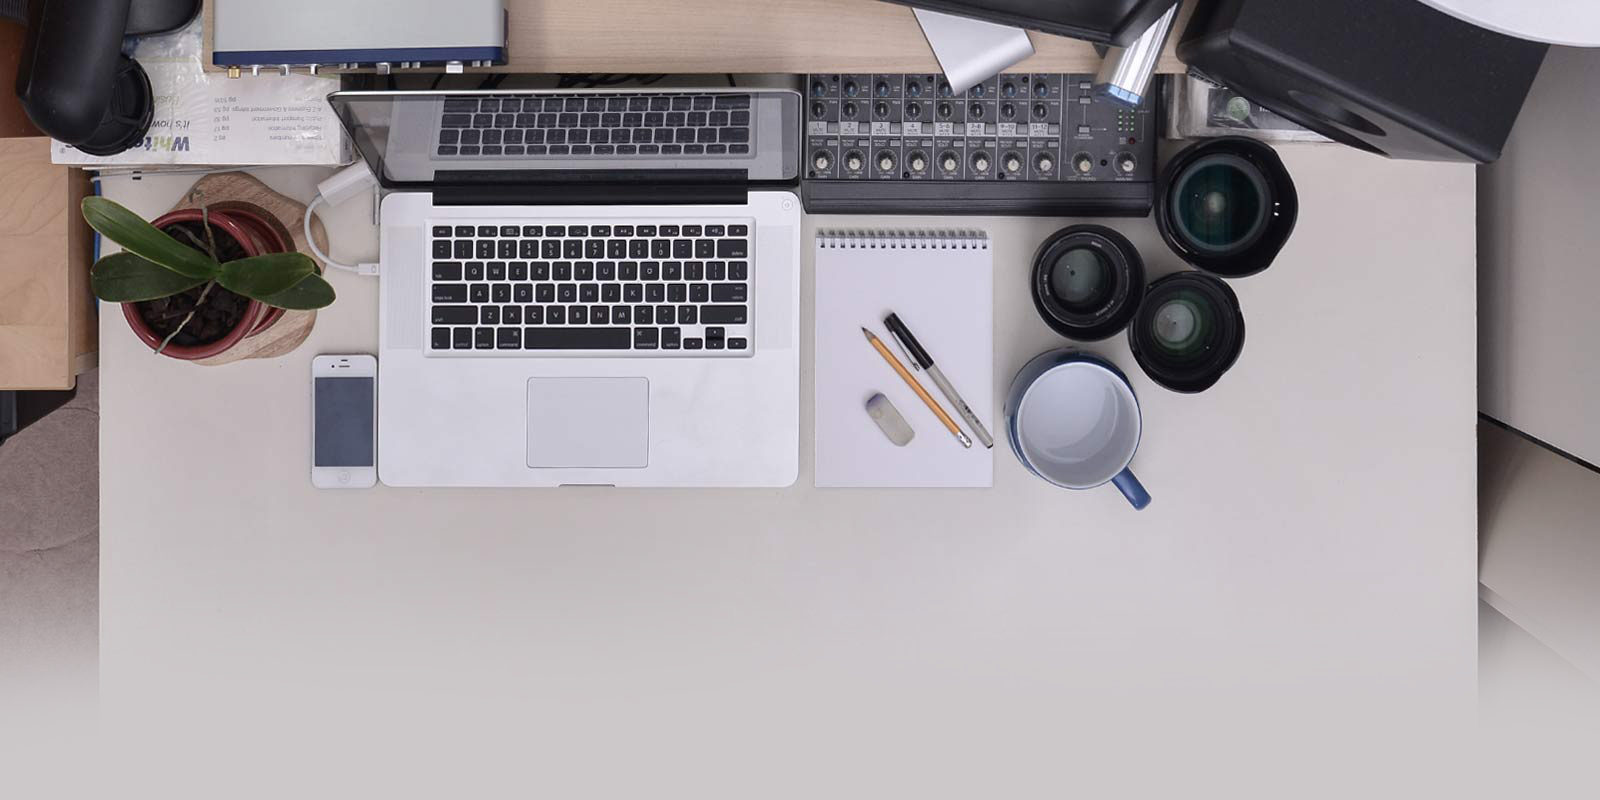
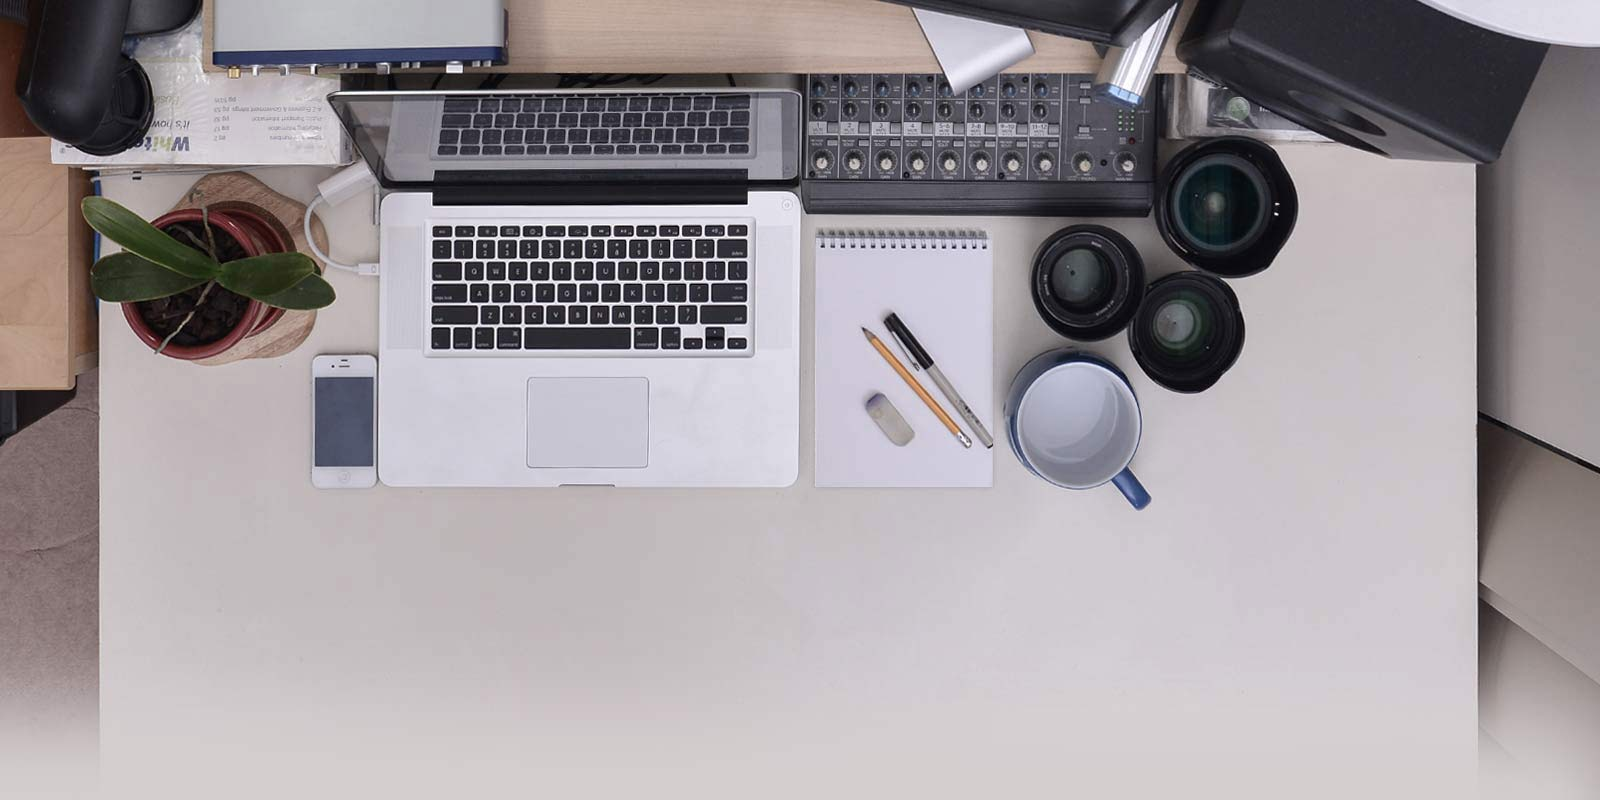
1.1.1.sf

Changed region(s): [[0.9062, 0.7188, 1.0, 0.9375], [0.0, 0.7188, 0.0625, 0.9062]]

diff --git a/css/myStyle.css b/css/myStyle.css
@@ -14,7 +14,7 @@ Section 1 Intro
 ****************************************
 ***************************************/
 #section-1{
-	background:url(../img/sct1.png) no-repeat 25% -60px #ccc7c9;
+	background:url(../img/sct1.jpg) no-repeat 25% -60px #d4cece;
 	background-size:cover;
 	}
 .sct1 .wrap{
@@ -30,22 +30,22 @@ Section 1 Intro
 
 .sct1 .wrap .script{
 	font-family: 'Leckerli One', cursive; 
-	color:#ffd200;
-	font-size:140px;
+	color:#ffc600;
+	font-size:150px;
 	line-height:0.7;display:inline-block
 	}
 .sct1 .wrap .sanSerif{
 	font-family: 'Open Sans Condensed', sans-serif;
 	color:#fff;
-	font-size:83px;
+	font-size:60px;
 	font-weight:300;
 	text-transform:uppercase;
 	}
 .sct1 .wrap p{
 	font-family: 'Yanone Kaffeesatz', sans-serif;	
-	font-size:38px;
+	font-size:32px;
 	font-weight:300;
-	color:#333;
+	color:#3b3b3b;
 	padding:0;
 	}
 /***************************************
@@ -421,58 +421,12 @@ Section Work Tiles
 	padding:5px 0;
 	color:#2b2b2b;
 	background:#ffd200		
-
 	}
 .viewWork a:hover,.viewWork a:active{
 	text-decoration:none;
+	color:#fff;
 }
 
-/***************************************
-****************************************
-Section 4 Quote 2
-****************************************
-***************************************/
-.sct4{
-	height:700px;
-	background:#fff;
-	position:relative;
-	}
-.sct4 .wrap{
-	margin-top:270px;
-	text-align:center;
-	}
-.sct4 .wrap blockquote:before{
-	font-size:120px;
-	font-weight:700;
-	font-family: 'News Cycle', sans-serif;	
-	color: #7A7A7A;
-    content: "\201D";
-    display: block;
-    left:0;
-    position: absolute;
-    top: -50px;
-	}	
-.sct4 .wrap blockquote{
-	font-family: 'Open Sans Condensed', sans-serif;
-	font-size:4em;
-	font-weight:300;
-	color:#5e5e5e;
-	border-top:3px solid #ccc;
-	border-bottom:3px solid #ccc;
-	border-left:none;
-	border-right:none;
-	padding:20px 0 20px;
-	position: relative;
-
-	}
-.sct4 .wrap cite{	
-	font-family: 'Yanone Kaffeesatz', sans-serif;	
-	font-size:30px;
-	font-weight:400;
-	color:#2d2d2d;
-	border:none;
-	text-transform:uppercase;
-	}
 /***************************************
 ****************************************
 Section 4a Coder
@@ -916,13 +870,13 @@ Section 7 Contact
 .sct1 .wrap .sanSerif{
 	font-family: 'Open Sans Condensed', sans-serif;
 	color:#fff;
-	font-size:70px;
+	font-size:50px;
 	font-weight:300;
 	text-transform:uppercase;
 	}
 .sct1 .wrap p{
 	font-family: 'Yanone Kaffeesatz', sans-serif;	
-	font-size:30px;
+	font-size:27px;
 	font-weight:300;
 	color:#333;
 	padding:0;
@@ -1043,7 +997,7 @@ Section 7 Contact
 @media (max-width: 767px) {
 /*********Section 1 Intro max-width: 767px*********/
 #section-1{
-	background: #ccc7c9;
+	background: #e3e3e3;
 	}
 .sct1 .wrap{
 	top:15%;
@@ -1051,20 +1005,16 @@ Section 7 Contact
 	margin:0 0 0 -50%;
 	}
 .sct1 .wrap .script{
-	color:#ffd200;
 	font-size:85px;
 	line-height:1;
 	}
 .sct1 .wrap .sanSerif{
-	color:#fff;
 	font-size:43px;
 	font-weight:300;
 	}
 .sct1 .wrap p{
 	font-family: 'Yanone Kaffeesatz', sans-serif;	
 	font-size:20px;
-	font-weight:300;
-	color:#333;
 	padding:0;
 	}	
 
@@ -1267,7 +1217,7 @@ Section 7 Contact
 @media screen and (max-width: 400px) {
 /*********Section 1 Intro max-width: 400px*********/
 #section-1{
-	background: #ccc7c9;
+	background: #e3e3e3;
 	}
 .sct1 .wrap{
 	top:0;
@@ -1275,13 +1225,11 @@ Section 7 Contact
 	margin:0 0 0 -50%;
 	}
 .sct1 .wrap .script{
-	color:#ffd200;
 	font-size:180px;
 	line-height:1;
 	display:block;
 	}
 .sct1 .wrap .sanSerif{
-	color:#fff;
 	font-size:40px;
 	font-weight:300;
 	}
@@ -1345,6 +1293,10 @@ Section 7 Contact
 	display:none;
 	}
 	
+.viewWork a{
+	font-size:1.4em;
+	
+	}
 /*********Section 4a Coder max-width: 400px*********/
 .sct4a{
 	}

diff --git a/index.html b/index.html
@@ -56,7 +56,7 @@
                                             Section 3 Designer
         ------------------------------------------------------------------------------------- 
         ------------------------------------------------------------------------------------->
-    	<li id="section-3">
+    	<li>
             <section class="sct3">
                 <div class="col-md-8 col-md-offset-2">
                         <div class="col-xs-2 col-sm-3 col-md-3">
@@ -73,10 +73,10 @@
                                                 Works Tile
             ------------------------------------------------------------------------------------- 
             ------------------------------------------------------------------------------------->
-            <section id="workTile" class="clearfix">
+        <section id="workTile" class="clearfix">
                 <div class="col-xs-6 col-sm-4 col-md-3"><a href="img/fridge.jpg" class="thumb12 tb swipebox" title="Site Content - Fridge"><img src="img/placeHolder.png" class="img-responsive" alt="Responsive image"></a></div>
                 <div class="col-xs-6 col-sm-4 col-md-3"><a href="img/cookingLg.jpg" class="thumb2 tb swipebox" title="Cooking in Style"><img src="img/placeHolder.png" class="img-responsive" alt="Responsive image"></a></div>
-                <div class="col-xs-6 col-sm-4 col-md-3"><a href="img/inkFinder.jpg" class="thumb10 tb swipebox" title="Ink Finder"><img src="img/placeHolder.png" class="img-responsive" alt="Responsive image"></a></div>
+                <div class="col-xs-6 col-sm-4 col-md-3"><a href="img/inkFinder.jpg" class="thumb10 tb swipebox" title="Site Content -  sInk Finder"><img src="img/placeHolder.png" class="img-responsive" alt="Responsive image"></a></div>
                 
                 <div class="col-xs-6 col-sm-4 col-md-3"><a href="img/heaters.jpg" class="thumb4 tb swipebox" title="Site Content - Heaters"><img src="img/placeHolder.png" class="img-responsive" alt="Responsive image"></a></div>
                 <div class="col-xs-6 col-sm-4 col-md-3"><a href="img/aircon.jpg" class="thumb9 tb swipebox" title="Site Content - Air conditioning"><img src="img/placeHolder.png" class="img-responsive" alt="Responsive image"></a></div>
@@ -90,7 +90,7 @@
                 <div class="col-xs-6 col-sm-4 col-md-3"><a href="img/jewbox1.gif" class="thumb13 tb swipebox" title="TIHIB - Jewellery Box"><img src="img/placeHolder.png" class="img-responsive" alt="Responsive image"></a></div>
             </section>
             <div class="viewWork"><a href="https://www.behance.net/shawnchang" target="_blank">Please click here to see more of my works</a></div>
-		</li>
+        </li>
         <!----------------------------------------------------------------------------------- 
         ------------------------------------------------------------------------------------- 
                                             Section 4a Coder
@@ -229,7 +229,7 @@
 		var imagePos = $(this).offset().top;
 
 		var topOfWindow = $(window).scrollTop();
-			if (imagePos < topOfWindow+100) {
+			if (imagePos < topOfWindow+50) {
 				$(this).addClass("hatch");
 			}
 		});
